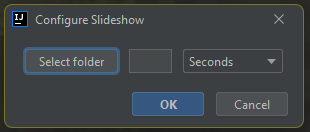
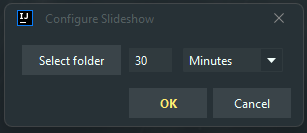
v1.1

diff --git a/src/main/kotlin/mit/brambasiel/background/dialogs/SlideshowDialog.kt b/src/main/kotlin/mit/brambasiel/background/dialogs/SlideshowDialog.kt
@@ -43,12 +43,14 @@ class SlideshowDialog : DialogWrapper(true) {
         format.commitsOnValidEdit = false
 
         interval = JFormattedTextField(format)
+        interval.text = "30"
         panel.add(interval)
 
         // unit box
         unitBox = ComboBox<String>()
         val units = arrayOf("Seconds", "Minutes", "Hours")
         units.forEach { unitBox.addItem(it) }
+        unitBox.selectedIndex = 1
         panel.add(unitBox)
 
         return panel
@@ -58,6 +60,10 @@ class SlideshowDialog : DialogWrapper(true) {
         get() {
             // create a new slideshow object
             if (file != null) {
+                if (interval.text.isEmpty()){
+                    Notifier.notify("No time amount was chosen")
+                    return null
+                }
                 val interval = interval.text.toLong() * when (unitBox.selectedItem) {
                     "Seconds" -> 1 * 1000
                     "Minutes" -> 60 * 1000
@@ -76,6 +82,7 @@ class SlideshowDialog : DialogWrapper(true) {
             if (dialog.showAndGet()) {
                 if (dialog.result != null) {
                     Slideshow.current = dialog.result!!
+                    SlideshowProcess.start()
                 }
             }
         }

diff --git a/src/main/kotlin/mit/brambasiel/background/utils/OSUtils.kt b/src/main/kotlin/mit/brambasiel/background/utils/OSUtils.kt
@@ -29,8 +29,6 @@ object OSUtils {
             for (file in cacheFolder.listFiles()!!){
                 return file
             }
-        }else{
-            Notifier.notify("Folder $path not found")
         }
         return null
     }
@@ -43,7 +41,7 @@ object OSUtils {
                 if (file == null){ // get transcoded wallpaper
                     file = File("${System.getProperty("user.home")}\\AppData\\Roaming\\Microsoft\\Windows\\Themes\\TranscodedWallpaper")
                 }
-                file!!
+                file
             }
             else -> {
                 Notifier.notify("Only Windows is supported for the moment.")

diff --git a/src/main/kotlin/mit/brambasiel/background/actions/OsBackground.kt b/src/main/kotlin/mit/brambasiel/background/actions/OsBackground.kt
@@ -3,6 +3,7 @@ package mit.brambasiel.background.actions
 import com.intellij.openapi.actionSystem.AnAction
 import com.intellij.openapi.actionSystem.AnActionEvent
 import mit.brambasiel.background.Background
+import mit.brambasiel.background.SlideshowProcess
 import mit.brambasiel.background.utils.Notifier
 import mit.brambasiel.background.utils.OSUtils
 
@@ -11,6 +12,7 @@ class OsBackground : AnAction() {
         val file = OSUtils.findOSBackground()
         if (file != null) {
             Background.setImage(file)
+            SlideshowProcess.stop()
         }else{
             Notifier.error("Could not find desktop wallpaper")
         }

diff --git a/src/main/kotlin/mit/brambasiel/background/actions/SetBackground.kt b/src/main/kotlin/mit/brambasiel/background/actions/SetBackground.kt
@@ -3,6 +3,7 @@ package mit.brambasiel.background.actions
 import com.intellij.openapi.actionSystem.AnAction
 import com.intellij.openapi.actionSystem.AnActionEvent
 import mit.brambasiel.background.Background
+import mit.brambasiel.background.SlideshowProcess
 import mit.brambasiel.background.utils.Notifier
 import mit.brambasiel.background.dialogs.DialogUtils
 import java.io.File
@@ -17,5 +18,6 @@ class SetBackground : AnAction() {
             }"
         )
         Background.setImage(realFile)
+        SlideshowProcess.stop()
     }
 }

diff --git a/src/main/kotlin/mit/brambasiel/background/actions/ClearBackground.kt b/src/main/kotlin/mit/brambasiel/background/actions/ClearBackground.kt
@@ -3,11 +3,13 @@ package mit.brambasiel.background.actions
 import com.intellij.openapi.actionSystem.AnAction
 import com.intellij.openapi.actionSystem.AnActionEvent
 import mit.brambasiel.background.Background
+import mit.brambasiel.background.SlideshowProcess
 import mit.brambasiel.background.utils.Notifier
 
 class ClearBackground : AnAction() {
     override fun actionPerformed(e: AnActionEvent) {
         Background.clear()
         Notifier.notify("Cleared background")
+        SlideshowProcess.stop()
     }
 }

diff --git a/README.md b/README.md
@@ -1,13 +1,10 @@
 # intellij-background-image
 An IntelliJ plugin that allows you to set a single image or slideshow as the background.
 
-![Logo](./images/picture.png)
+![Logo](./images/logo.png)
 
 ## Screenshots
 ![Preview](./images/preview.png)
 ### Menus
 ![Dropdown](./images/dropdown.png)
 ![Config](./images/slideshow-config.png)
-
-### Attributions
-[Photo icons created by Freepik - Flaticon](https://www.flaticon.com/free-icons/photo)
